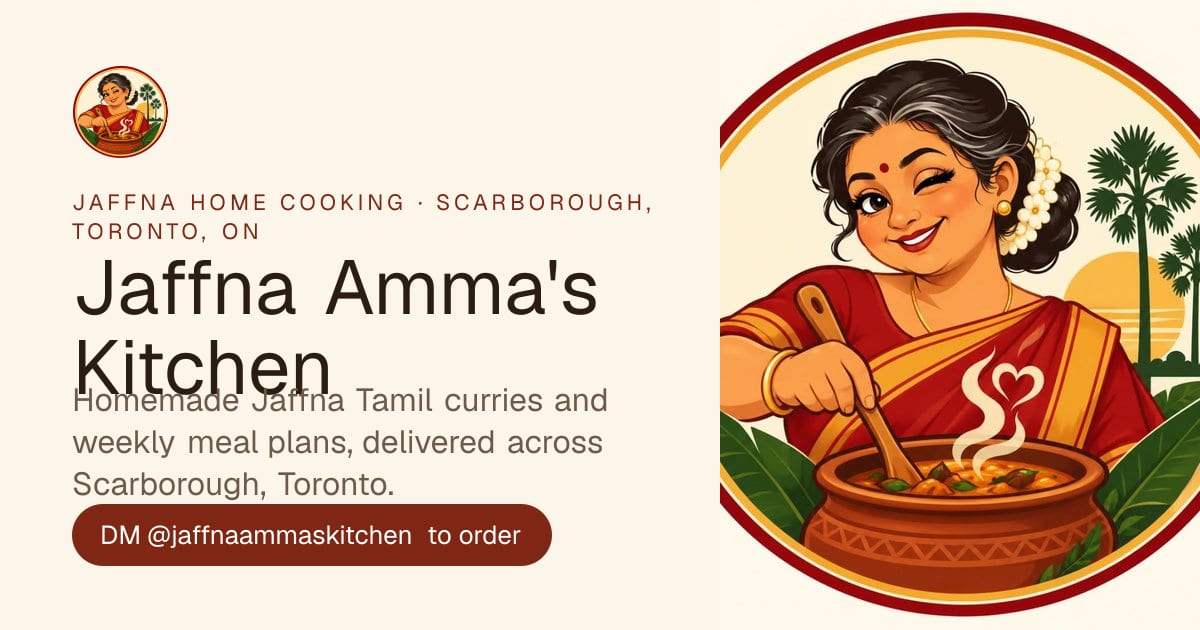
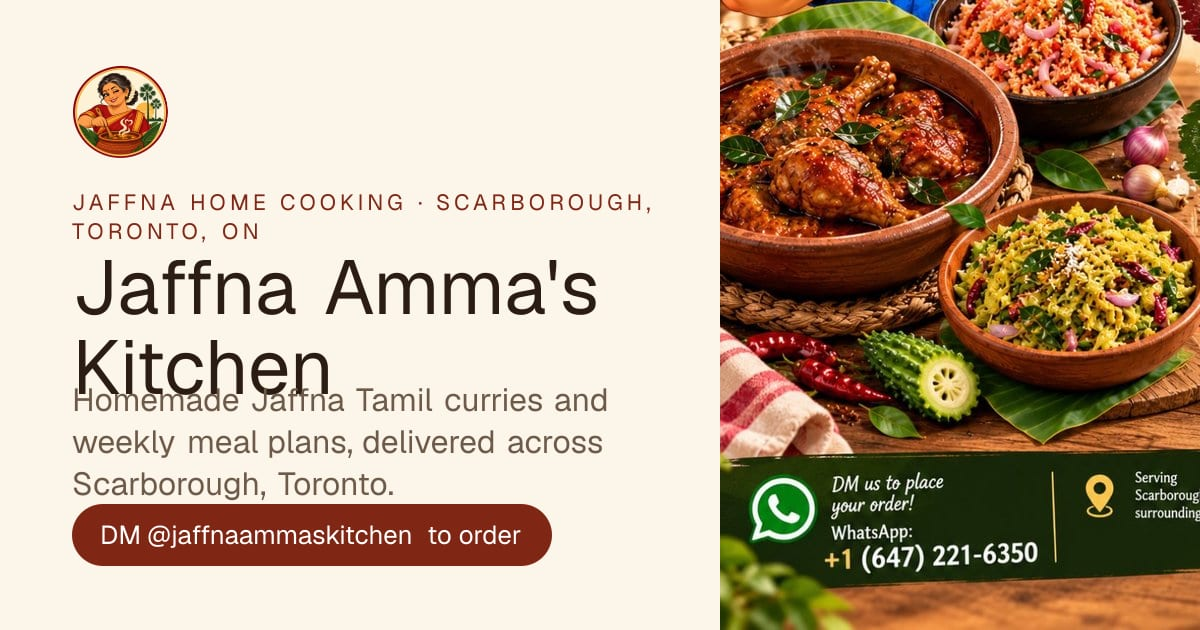
Demo site for jaffna-ammas-kitchen

diff --git a/site.config.ts b/site.config.ts
@@ -20,7 +20,11 @@ export const site: SiteConfig = {
     eyebrow: "Homemade in Scarborough",
     headline: "Amma's Jaffna curries, from her pot to your plate",
     subhead: "Every curry is made by hand, the real Jaffna way, with Amma's roasted curry powder. Order by Instagram DM or on our flavrr page, with delivery across Scarborough and nearby areas.",
-    images: [{ src: "/images/amma.jpg", alt: "Jaffna Amma's Kitchen illustration of Amma stirring a clay pot of curry" }],
+    images: [
+      { src: "/images/post-7.jpg", alt: "Jaffna chicken curry, coconut sambol and pavakkai sambol from Amma's kitchen" },
+      { src: "/images/post-8.jpg", alt: "Vegetarian Jaffna spread of curries, dhal and rice" },
+      { src: "/images/amma.jpg", alt: "Amma stirring a clay pot of curry" },
+    ],
     secondaryCta: { label: "See the menu", href: "#menu" },
   },
 
@@ -60,6 +64,19 @@ export const site: SiteConfig = {
       },
     ],
     footnote: "Delivery across Scarborough and nearby areas is $6.",
+  },
+
+  gallery: {
+    title: "From Amma's kitchen",
+    items: [
+      { src: "/images/post-1.jpg", width: 1290, height: 2294, alt: "Amma checking the day's orders", caption: "Amma checking the day's orders" },
+      { src: "/images/post-4.jpg", width: 1122, height: 1402, alt: "Jaffna Mutton Curry, slow cooked with roasted spices", caption: "Jaffna Mutton Curry, slow cooked with roasted spices" },
+      { src: "/images/post-5.jpg", width: 1092, height: 1440, alt: "A full plate of rice and curries", caption: "A full plate of rice and curries" },
+      { src: "/images/post-6.jpg", width: 1120, height: 1424, alt: "Amma's chicken curry, a simple choice", caption: "Amma's chicken curry, a simple choice" },
+      { src: "/images/post-7.jpg", width: 1136, height: 1408, alt: "Chicken curry, coconut sambol and pavakkai sambol", caption: "Chicken curry, coconut sambol and pavakkai sambol" },
+      { src: "/images/post-8.jpg", width: 1136, height: 1408, alt: "Vegetarian Wednesday: eggplant curry, dhal and more", caption: "Vegetarian Wednesday: eggplant curry, dhal and more" },
+      { src: "/images/post-10.jpg", width: 1104, height: 1440, alt: "Curry bags ready for pickup", caption: "Curry bags ready for pickup" },
+    ],
   },
 
   instagram: {
